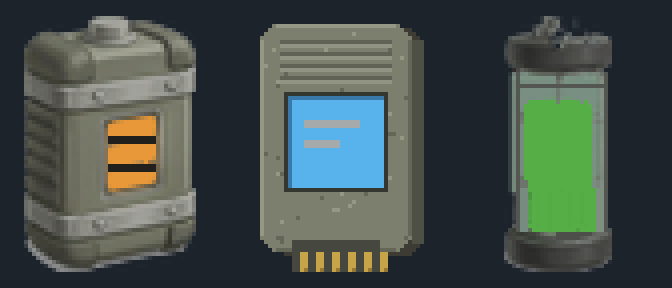
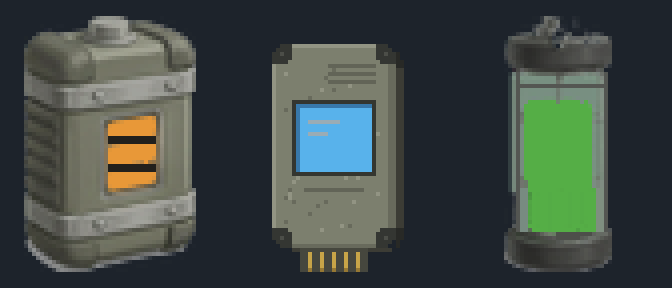
Pods masters: the Data card brought to the trio's weight, re-signed

Changed region(s): [[0.375, 0.0625, 0.6562, 0.9688], [0.5, 0.7188, 0.5312, 0.75]]

diff --git a/art/station-masters/pods/tools/status.py b/art/station-masters/pods/tools/status.py
@@ -67,7 +67,7 @@ AD_RECORDS = {
  "crate-closer-sealed-384x256": ('withdrawn', None, 'withdrawn (art director): replaced by crate-{sealed,opening,open}-432x272 in the region UI/UX ruled at 11:12'),
  "crate-closer-opening-384x256": ('withdrawn', None, 'withdrawn (art director): replaced by crate-{sealed,opening,open}-432x272 in the region UI/UX ruled at 11:12'),
  "cargo-energy-48x64": ('signed', "art director, the haul trio (owner's yes)", "signed (art director) at 1x, opaque pixels: L* 46.8, mean R-B 21.2, sat 15.4, 0.0 percent above L* 70, in the crate's band (L* 45-49 +-4, sat <= 35); layer family PAINTED (a painting, cut and graded, hand-touched); the riveted, banded cell, three amber cells in its window"),
- "cargo-data-48x64": ('signed', "art director, the haul trio (owner's yes)", "signed (art director) at 1x, opaque pixels: L* 52.4, mean R-B -17.6, sat 24.4, 0.0 percent above L* 70 (window and bars capped at L* 69.5), in the crate's band (L* 45-49 +-4, sat <= 35); layer family PAINTED; redrawn by hand as a thick card seen nearly face-on (the owner: a thick card, not a stick): a 38 px face, a 3 px side, ribs at the top, the sky window with two white bars, gold contacts at the foot"),
+ "cargo-data-48x64": ('signed', "art director, the haul trio (owner's yes)", "signed (art director) at 1x, opaque pixels: L* 49.5, mean R-B -14.2, sat 22.1, 0.0 percent above L* 70 (window capped at L* 69.5), in the crate's band (L* 45-49 +-4, sat <= 35); layer family PAINTED; redrawn by hand to the trio's weight (the owner: the card looked heavier than the other two): a thick card seen nearly face-on, a 31 px face with a 2 px side, dark corner bumpers, short ribs, a smaller recessed sky window with two bars, gold contacts at the foot; 1773 opaque px, between Energy (2448) and Essence (1431)"),
  "cargo-essence-48x64": ('signed', "art director, the haul trio (owner's yes)", "signed (art director) at 1x, opaque pixels: L* 49.3, mean R-B 5.9, sat 28.5, 0.0 percent above L* 70, in the crate's band (L* 45-49 +-4, sat <= 35); layer family PAINTED (a painting, cut and graded, hand-touched); the sealed sample tube in a light cage, the green one continuous liquid (one hoop above it)"),
 }
 

diff --git a/art/station-masters/pods/README.md b/art/station-masters/pods/README.md
@@ -34,7 +34,7 @@ Each slice is named by the register id it replaces (`room`, `ring`, `page`, `tra
 | `bud-ready-128x160` | 128×160 |  | signed (art director, verdict (963f4eab)): signed (art director) at 1x, opaque pixels: L* 65.9, key R-B 72, sat 52, 0 percent above L* 70; the bean a clean 112x140 oval, peach lit cream from the top left, a 1 px rust edge, no dot, sprout or waist; late warms toward blush, ready brightest | the bud, ready: by hand, the inner light up full, a soft cream light across the bean's middle where the shape's window sits (pass 111) |
 | `bud-ready-front-128x160` | 128×160 |  | signed (art director, verdict (963f4eab)): signed (art director) at 1x, opaque pixels, 0 percent above L* 70; the bean a clean 112x140 oval, peach lit cream from the top left, a 1 px rust edge, no dot, sprout or waist | the skin over the shape: the bean's silhouette at half opacity, lighter at the middle, drawn over the shape in the ready bud (pass 111) |
 | `bud-small-64x80` | 64×80 |  | signed (art director, verdict (963f4eab)): signed (art director) at 1x, opaque pixels: L* 61.5, key R-B 71, sat 58, 0 percent above L* 70; the bean a clean 112x140 oval, peach lit cream from the top left, a 1 px rust edge, no dot, sprout or waist | the bud for Create's small chamber: the new bud-early reduced by one half (64x80, only ever reduced) (pass 111) |
-| `cargo-data-48x64` | 48×64 |  | signed (art director, the haul trio (owner's yes)): signed (art director) at 1x, opaque pixels: L* 52.4, mean R-B -17.6, sat 24.4, 0.0 percent above L* 70 (window and bars capped at L* 69.5), in the crate's band (L* 45-49 +-4, sat <= 35); layer family PAINTED; redrawn by hand as a thick card seen nearly face-on (the owner: a thick card, not a stick): a 38 px face, a 3 px side, ribs at the top, the sky window with two white bars, gold contacts at the foot | the Data haul container: the rugged ribbed cartridge standing upright, its connector at the foot, a flat sky window (#5bb9f3); a Pro edit from the owner's own sketch, keyed from the ground, uniformly scaled to 64 rows with the feet on the bottom row, the body graded to a mean L* of 47, highlights capped under L* 70, the window flat colour capped at L* 69.5 (pass 133) |
+| `cargo-data-48x64` | 48×64 |  | signed (art director, the haul trio (owner's yes)): signed (art director) at 1x, opaque pixels: L* 49.5, mean R-B -14.2, sat 22.1, 0.0 percent above L* 70 (window capped at L* 69.5), in the crate's band (L* 45-49 +-4, sat <= 35); layer family PAINTED; redrawn by hand to the trio's weight (the owner: the card looked heavier than the other two): a thick card seen nearly face-on, a 31 px face with a 2 px side, dark corner bumpers, short ribs, a smaller recessed sky window with two bars, gold contacts at the foot; 1773 opaque px, between Energy (2448) and Essence (1431) | the Data haul container: the rugged ribbed cartridge standing upright, its connector at the foot, a flat sky window (#5bb9f3); a Pro edit from the owner's own sketch, keyed from the ground, uniformly scaled to 64 rows with the feet on the bottom row, the body graded to a mean L* of 47, highlights capped under L* 70, the window flat colour capped at L* 69.5 (pass 133) |
 | `cargo-energy-48x64` | 48×64 |  | signed (art director, the haul trio (owner's yes)): signed (art director) at 1x, opaque pixels: L* 46.8, mean R-B 21.2, sat 15.4, 0.0 percent above L* 70, in the crate's band (L* 45-49 +-4, sat <= 35); layer family PAINTED (a painting, cut and graded, hand-touched); the riveted, banded cell, three amber cells in its window | the Energy haul container: the banded steel battery cell with dark rubber corners, a cap terminal and a charge window of three flat amber bars (#ffa83f); a Pro edit from the owner's own sketch, keyed from the ground, uniformly scaled to 64 rows with the feet on the bottom row, the body graded to a mean L* of 47, highlights capped under L* 70, the window flat colour capped at L* 69.5 (pass 133) |
 | `cargo-essence-48x64` | 48×64 |  | signed (art director, the haul trio (owner's yes)): signed (art director) at 1x, opaque pixels: L* 49.3, mean R-B 5.9, sat 28.5, 0.0 percent above L* 70, in the crate's band (L* 45-49 +-4, sat <= 35); layer family PAINTED (a painting, cut and graded, hand-touched); the sealed sample tube in a light cage, the green one continuous liquid (one hoop above it) | the Essence haul container: the caged sealed glass sample tube (the art director's E1 sketch) with flat green essence (#5cbb4c), a light open cage of two bars and two hoops, dark rubber end caps and a steel clip on the top cap; a Pro edit from the owner's own sketch, keyed from the ground, uniformly scaled to 64 rows with the feet on the bottom row, the body graded to a mean L* of 47, highlights capped under L* 70, the window flat colour capped at L* 69.5 (pass 133) |
 | `cell-outline-unread-128x160` | 128×160 |  | signed (pass 61 verdict): the seed values (bone rim, fog rim, frostS body, mist dark half and ghost; the ink ring ruled not needed), and the unread outline typed at its size | the unread picture's dotted outline typed at its size: 1 px `bevel` #5a6672 dots, 1 on 2 off; all four corners lit; from each corner the dots run inward on a 3 px period, each side's remainder one gap at its middle; no two dots touch; the middle fully transparent (pass 60; replaces the withdrawn cell-outline-unread-24x24) |
